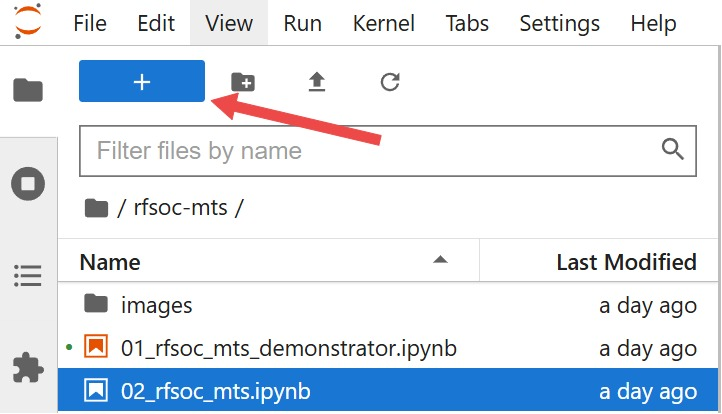
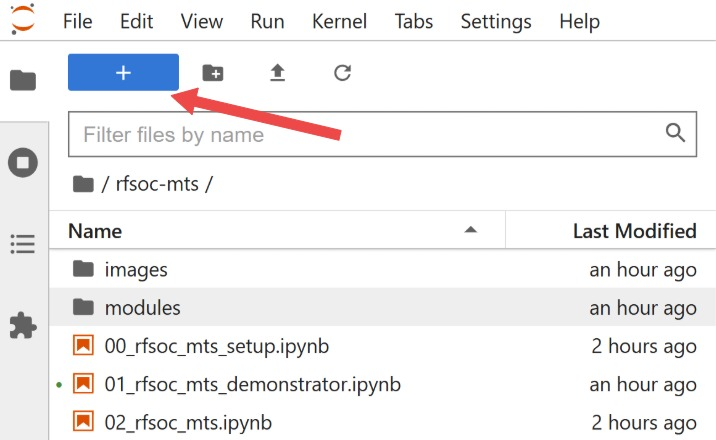
updating readme with new jupyter images

diff --git a/README.md b/README.md
@@ -16,7 +16,7 @@
 
  [* ZCU208(https://www.xilinx.com/products/boards-and-kits/zcu208.html),]: # 
  * [RFSoC4x2](http://rfsoc-pynq.io/),
- * [ZCU208](https://www.xilinx.com/products/boards-and-kits/zcu208.html) (In the future),
+ * [ZCU208](https://www.xilinx.com/products/boards-and-kits/zcu208.html),
  
  <p align="center">
    <img src="./demonstration.gif" width="75%" height="75%" />
@@ -30,13 +30,13 @@
  4. We need to open a terminal in Jupyter Lab. Firstly, open a launcher window as shown in the figure below:
  
  <p align="center">
-   <img src="./open_jupyter_launcher.jpg" width="50%" height="50%" />
+   <img src="./open_jupyter_launcher.jpg" width="30%" height="30%" />
  </p>
  
  * Now open a terminal in Jupyter as illustrated below:
  
  <p align="center">
-   <img src="./open_terminal_window.jpg" width="50%" height="50%" />
+   <img src="./open_terminal_window.jpg" width="30%" height="30%" />
  </p>
  
  If you carried out step (3), then run the command below in the terminal to install the RFSoC MTS Demonstrator.
